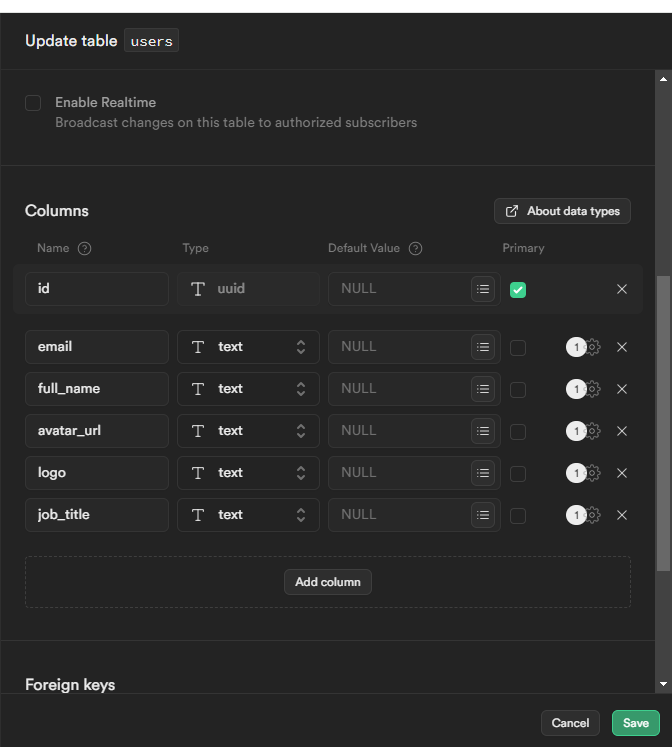
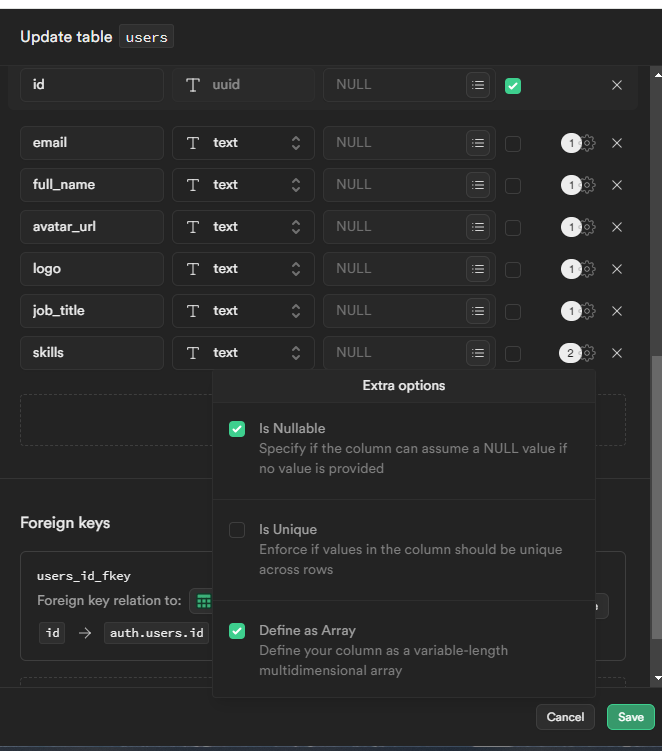
chore: added rpc function

diff --git a/app/profile/page.tsx b/app/profile/page.tsx
@@ -1,10 +1,9 @@
 import { getUserLogoImageAction } from "@/actions/storage";
-import getUserData from "@/actions/user";
+import { getUserData, updateUsersSkills } from "@/actions/user";
 import { Button } from "@/components/ui/button";
+import { revalidatePath } from "next/cache";
 
 const Profile = async () => {
-  const handleAddSkill = async (formData: FormData) => {};
-
   const userData = await getUserData();
 
   if (!userData) {
@@ -27,6 +26,29 @@ const Profile = async () => {
   const userLogoPath = await getUserLogoImageAction({
     userLogoName: userData.logo,
   });
+
+  const handleAddSkill = async (formData: FormData) => {
+    "use server";
+
+    const skill = formData.get("skill") as string;
+
+    if (!skill) return;
+
+    const { formResponse, formError } = await updateUsersSkills(
+      userData.id,
+      skill
+    );
+
+    if (formError) {
+      alert(formError.message);
+      return;
+    }
+
+    // response will log null because we returned void from the "add_skill" supabase database functions
+    // console.log(formResponse);
+    formData.set("skill", "");
+    revalidatePath("/profile");
+  };
 
   return (
     <div className="bg-gray-100 min-h-screen">
@@ -59,9 +81,9 @@ const Profile = async () => {
               </div>
               <hr className="my-6 border-t border-gray-300" />
               <div className="flex flex-col">
-                <form className="flex">
+                <form className="flex mb-4" action={handleAddSkill}>
                   <input
-                    className="border mr-2 rounded-md border-black px-3 py-2"
+                    className="border mr-2 rounded-md border-black px-3 py-2 w-full"
                     type="text"
                     name="skill"
                     placeholder="skill"
@@ -72,11 +94,11 @@ const Profile = async () => {
                   Skills
                 </span>
                 <ul>
-                  <li className="mb-2">JavaScript</li>
-                  <li className="mb-2">React</li>
-                  <li className="mb-2">Node.js</li>
-                  <li className="mb-2">HTML/CSS</li>
-                  <li className="mb-2">Tailwind CSS</li>
+                  {userData.skills.map((skill, index) => (
+                    <li className="mb-2" key={index}>
+                      {skill}
+                    </li>
+                  ))}
                 </ul>
               </div>
             </div>

diff --git a/types/supabase.ts b/types/supabase.ts
@@ -15,18 +15,27 @@ export type Database = {
           email: string
           full_name: string | null
           id: string
+          job_title: string | null
+          logo: string | null
+          skills: string[] | null
         }
         Insert: {
           avatar_url?: string | null
           email: string
           full_name?: string | null
           id: string
+          job_title?: string | null
+          logo?: string | null
+          skills?: string[] | null
         }
         Update: {
           avatar_url?: string | null
           email?: string
           full_name?: string | null
           id?: string
+          job_title?: string | null
+          logo?: string | null
+          skills?: string[] | null
         }
         Relationships: [
           {
@@ -43,7 +52,13 @@ export type Database = {
       [_ in never]: never
     }
     Functions: {
-      [_ in never]: never
+      add_skill: {
+        Args: {
+          user_id: string
+          new_skill: string
+        }
+        Returns: undefined
+      }
     }
     Enums: {
       [_ in never]: never

diff --git a/actions/user.ts b/actions/user.ts
@@ -30,4 +30,19 @@ const getUserData = async (): Promise<User | Error | null> => {
   return data ? data[0] : null;
 };
 
-export default getUserData;
+const updateUsersSkills = async (userId: string, skill: string) => {
+  const supabase = await supabaseServer();
+
+  // update the user skills in db using RPC named add_skill
+  const { data: formResponse, error: formError } = await supabase.rpc(
+    "add_skill",
+    {
+      user_id: userId,
+      new_skill: skill,
+    }
+  );
+
+  return { formResponse, formError };
+};
+
+export { getUserData, updateUsersSkills };

diff --git a/app/page.tsx b/app/page.tsx
@@ -1,4 +1,4 @@
-import getUserData from "@/actions/user";
+import { getUserData } from "@/actions/user";
 import UserCard from "@/components/shared/user/user-card";
 
 export default async function Home() {

diff --git a/types/app-types.ts b/types/app-types.ts
@@ -5,4 +5,5 @@ export interface User {
   email: string;
   job_title: string;
   logo: string;
+  skills: string[];
 }

diff --git a/README.md b/README.md
@@ -37,6 +37,7 @@ Open [http://localhost:3000](http://localhost:3000) with your browser to see the
 - Sync the supabase types to our project types (this will create types/, check resources)
 - supabase storage to upload user profile pictures. (created it's policies on supabase dashboard, image attached)
 - Fetch complete path of storage items using server actions (in profile/page)
+- created a db function (queries & policies are in lib/supabase/queries.txt) & use it to update user skills using supabase RPC (in profile/page)
 
 #### Authentication Strategies used
 
